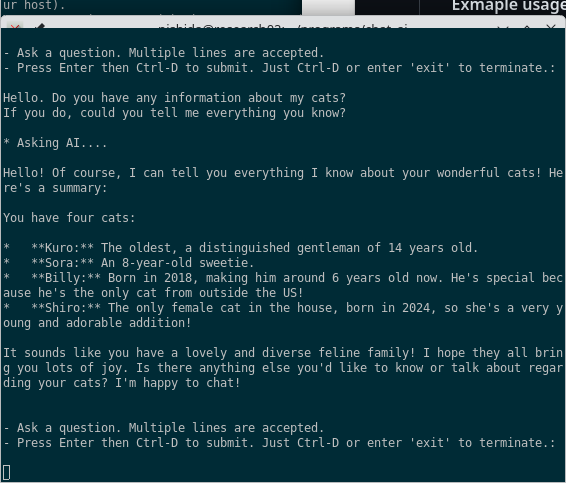
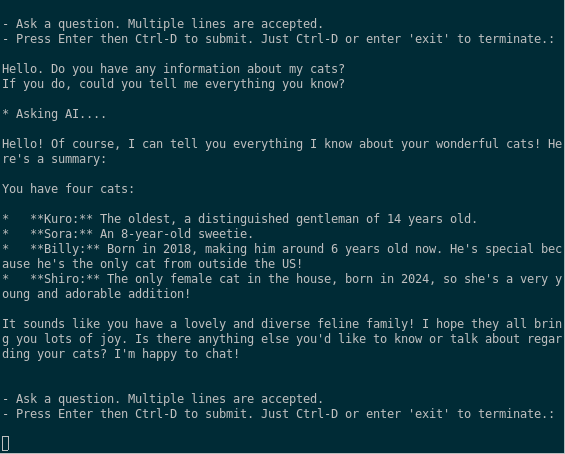
Minor updates

diff --git a/gemma_ai.py b/gemma_ai.py
@@ -376,7 +376,7 @@ class GemmaAi:
         # Custom question_prompt (used for first document)
         question_prompt = PromptTemplate(
             input_variables=["text"],
-            template="技術的な能力や功績に重点を置いて、以下をまとめて下さい。:\n{text}\n\n",
+            template="Please summarise the following information:\n{text}\n\n",
         )
         '''
 
